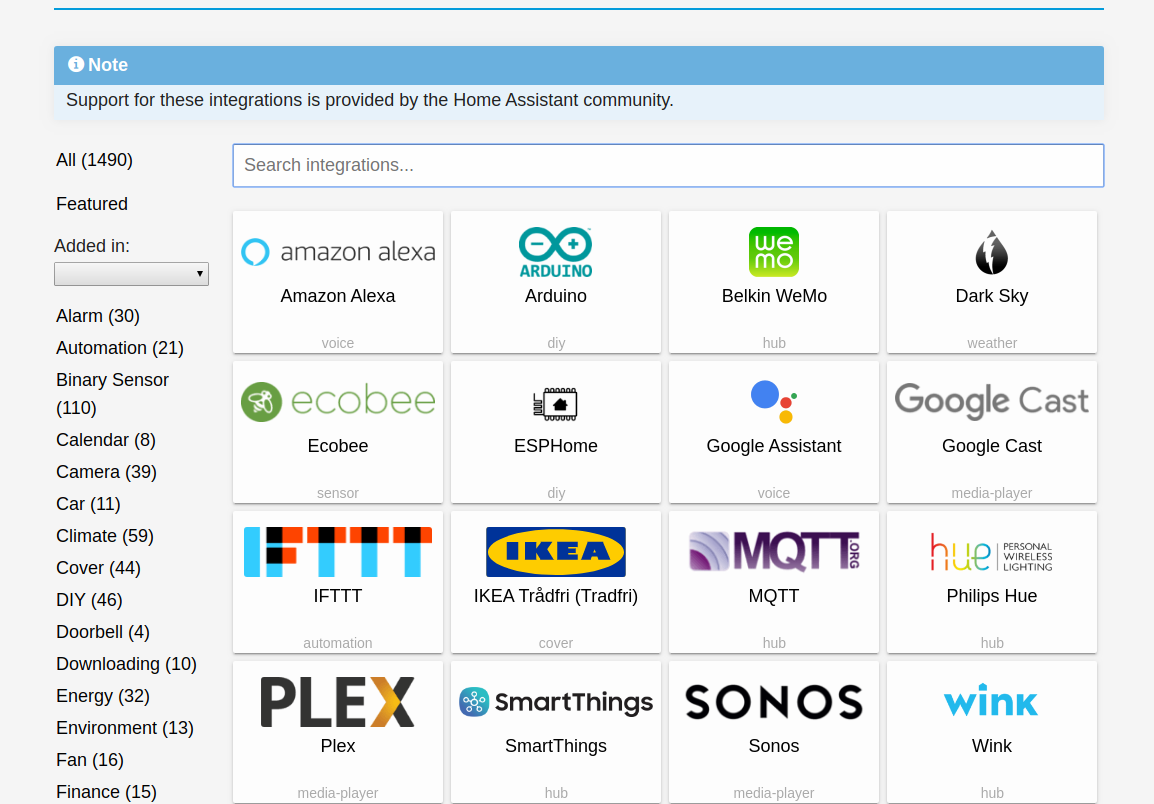
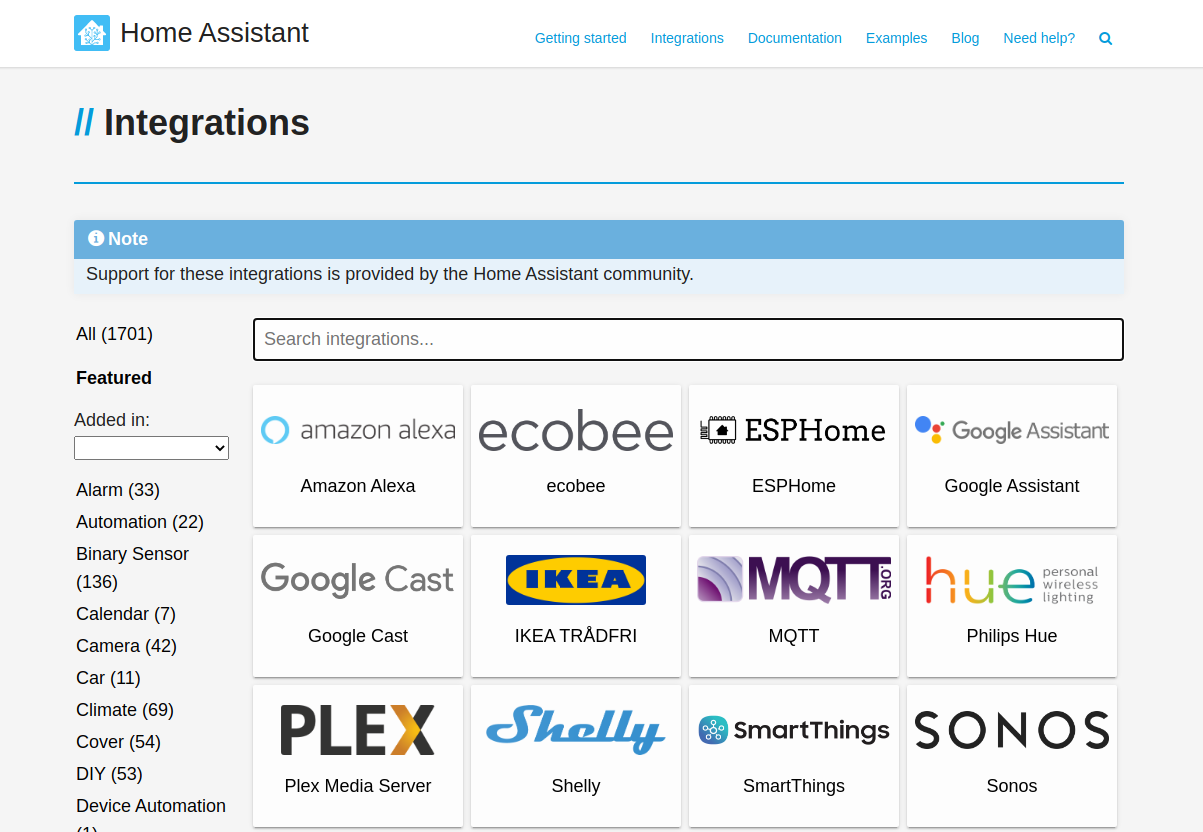
hs integration info fix

Changed region(s): [[0.0312, 0.0, 0.9671, 1.0], [0.1872, 0.4664, 0.9359, 0.8085], [0.1872, 0.8085, 0.9671, 1.0]]

diff --git a/src/pages/index.js b/src/pages/index.js
@@ -34,12 +34,12 @@ const ais_features = [
     addClass: 'col col--4',
   },
   {
-    title: <>Ponad <span className="strongInfo">1680</span> Integracji Home Assistant</>,
+    title: <>Ponad <span className="strongInfo">1700</span> Integracji Home Assistant</>,
     imageUrl: 'img/main/ha.svg',
     description: (
       <>
         Jedną ze składowych oprogramowania dostarczanego na bramce jest system automatyki domowej <a rel="noopener" href="https://www.home-assistant.io/" target="_blank">Home Assistant Core</a>.
-        Z zainstalowanymi i gotowymi do użycia <a href="/docs/ais_app_player"> integracjami</a> oraz z możliwością dodania <a href="https://www.home-assistant.io/integrations/" target="_blank" rel="noopener">ponad 1680 dodatkowych integracji</a> które są wspierane i rozwijanych przez społeczność skupioną wokół projektu Home Assistant.
+        Z zainstalowanymi i gotowymi do użycia <a href="/docs/ais_app_player"> integracjami</a> oraz z możliwością dodania <a href="https://www.home-assistant.io/integrations/" target="_blank" rel="noopener">ponad 1700 dodatkowych integracji</a> które są wspierane i rozwijanych przez społeczność skupioną wokół projektu Home Assistant.
       </>
     ),
     addClass: 'col col--4',

diff --git a/sidebars.js b/sidebars.js
@@ -133,6 +133,9 @@ module.exports = {
       },
       "ais_app_dialogflow",
       "ais_app_integration_usb",
+      "ais_app_integration_mqtt",
+      "ais_app_integration_terminal",
+      "ais_app_integration_ftp",
       "ais_app_integration_zigbee"
     ],
     "Integracje dodatkowe": [

diff --git a/docs/ais_iot_index.md b/docs/ais_iot_index.md
@@ -3,11 +3,13 @@ title: Integracje
 sidebar_label: Integracje dodatkowe
 ---
 
-Na **Bramce IoT dostarczamy zainstalowaną największą na świecie otwartą platformę do sterowania automatyką domową**, dzięki temu do Asystenta domowego można podłączyć ponad **1400 różnych komponentów**.
+Na **Bramce IoT dostarczamy zainstalowaną największą na świecie otwartą platformę do sterowania automatyką domową**, dzięki temu do Asystenta domowego można podłączyć ponad **1700 różnych komponentów**.
 
 ![Aplikacja asystent domowy](/img/en/iot/iot_hass.png)
 
+:::caution Uwaga
 **Wsparcie dla tych komponentów zapewnia społeczność skupiona wokół platformy do automatyki domowej "Home Assistant"**. Otwartość platformy zapewnia naszemu produktowi stały rozwój i aktualizacje, pracuje na to setki programistów. Rynek Internetu Rzeczy rozwija się bardzo dynamicznie i co tydzień w systemie pojawiają sie integracje z nowymi urządzeniami.
+:::
 
 By umożliwić każdemu proste dodawanie nowych urządzeń tworzymy graficzne kreatory, które prowadzą przez proces konfiguracji krok po kroku, mamy też specjalną sekcję urządzeń [Rekomendowane do zastosowania w Twoim domu](/docs/ais_iot_works_with).
 

diff --git a/docs/ais_gate_faq_custom_component.md b/docs/ais_gate_faq_custom_component.md
@@ -5,7 +5,7 @@ sidebar_label: Własny komponent w Asystencie domowym
 
 ## Cel dodania własnego komponentu
 
-Przeszukałeś 1400 gotowych komponentów i nie znalazłeś możliwości integracji ze swoim urządzeniem? Coś nie do końca działa tak jak byś chciał i masz pomysł jak zrobić to lepiej? Siłą projektów OpenSource jest to, że masz dostęp do kodu i masz możliwość jego zmiany pod własne potrzeby. Nadszedł czas, aby napisać swój pierwszy kod do integracji.
+Przeszukałeś 1700 gotowych komponentów i nie znalazłeś możliwości integracji ze swoim urządzeniem? Coś nie do końca działa tak jak byś chciał i masz pomysł jak zrobić to lepiej? Siłą projektów OpenSource jest to, że masz dostęp do kodu i masz możliwość jego zmiany pod własne potrzeby. Nadszedł czas, aby napisać swój pierwszy kod do integracji.
 
 Poniżej opiszemy krok po krok,u w jaki sposób dodać najprostszy komponent do Asystenta domowego.
 Bardziej obszerne przykłady integracji są dostępne w <a href="https://github.com/home-assistant/example-custom-config/tree/master/custom_components/" target="_blank">repozytorium przykładowych własnych integracji Home Assistant</a>

diff --git a/docs/ais_app_integration_mqtt.md b/docs/ais_app_integration_mqtt.md
@@ -1,0 +1,17 @@
+---
+title: "Broker MQTT"
+sidebar_label: Broker MQTT
+---
+
+## Wprowadzenie
+
+
+Na bramce dostarczamy wbudowany broker MQTT oraz usługę zapewniającą jego działanie "z pudełka" po starcie bramki.
+
+MQTT (MQ Telemetry Transport), to protokół łączności maszyna-maszyna lub „Internet rzeczy” będący uzupełnieniem protokołu TCP/IP. Pozwala na niezwykle lekki transport komunikatów publikowania/subskrypcji.
+Urządzenia z naszym oprograwmowaniem komunikują się z bramką w sieci lokalnej za pomocą MQTT. Dzięki czemu są automatycznie wykrywane przez bramkę bez potrzeby konfiguracyji po stronie użytkownika. 
+
+
+![WEB console](/img/en/bramka/mqtt_broker.png)
+
+> TODO - opis w przygotowaniu

diff --git a/docs/ais_app_integration_terminal.md b/docs/ais_app_integration_terminal.md
@@ -1,0 +1,18 @@
+---
+title: "Konsola web"
+sidebar_label: Konsola web
+---
+
+## Wprowadzenie
+
+
+Na bramce dostarczamy narzędzie wiersza poleceń w formie aplikacji webowej. Umożliwia to łatwy dostęp do konsoli bramki bez potrzeby łączenia się po z konsoli po SSH.
+
+
+
+![WEB console](/img/en/bramka/web_console.png)
+
+
+
+> TODO - opis w przygotowaniu
+

diff --git a/docs/ais_app_integration_ftp.md b/docs/ais_app_integration_ftp.md
@@ -1,0 +1,17 @@
+---
+title: "Serwer FTP"
+sidebar_label: Serwer FTP
+---
+
+## Wprowadzenie
+
+
+Na bramce dostarczamy serwer FTP umożliwiający łatwą wymianę  plików pomiędzy bramką a innymi komputerami w sieci lokalnej, za pomocą protokołu komunikacyjnego FTP.
+
+
+![FTP server](/img/en/bramka/ftp_server.png)
+
+
+
+> TODO - opis w przygotowaniu
+

diff --git a/docs/ais_app_integration_usb.md b/docs/ais_app_integration_usb.md
@@ -1,6 +1,6 @@
 ---
 title: "USB rozpoznawanie urządzeń"
-sidebar_label: USB
+sidebar_label: Urządzenia USB
 ---
 
 ## Wprowadzenie
